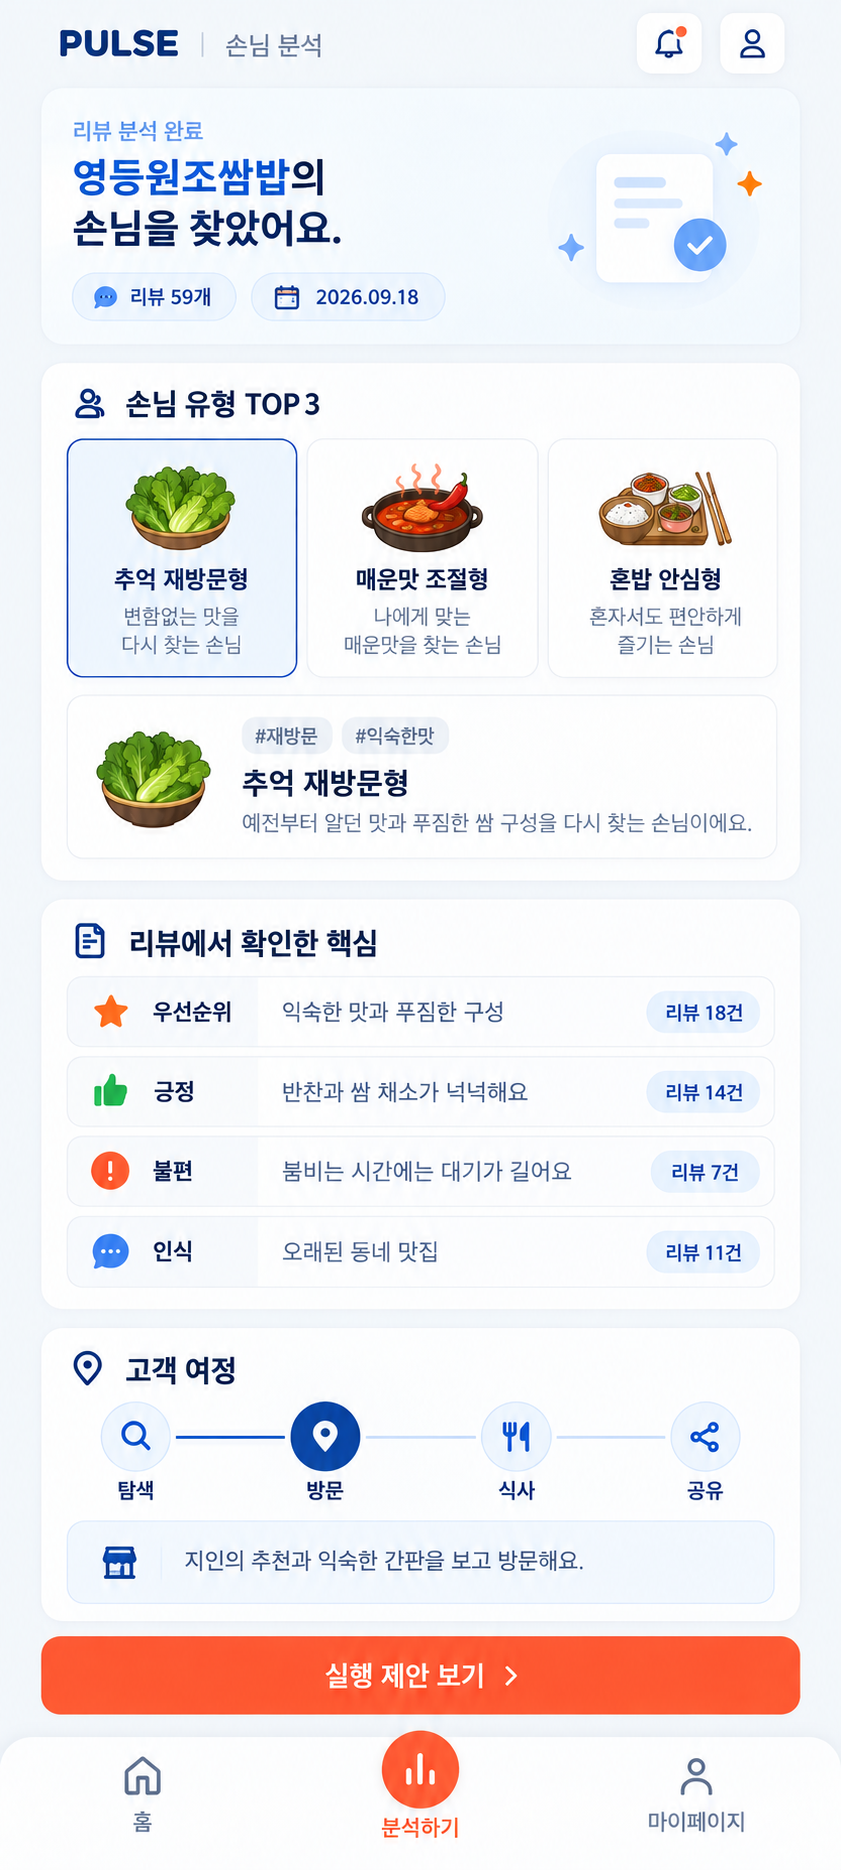
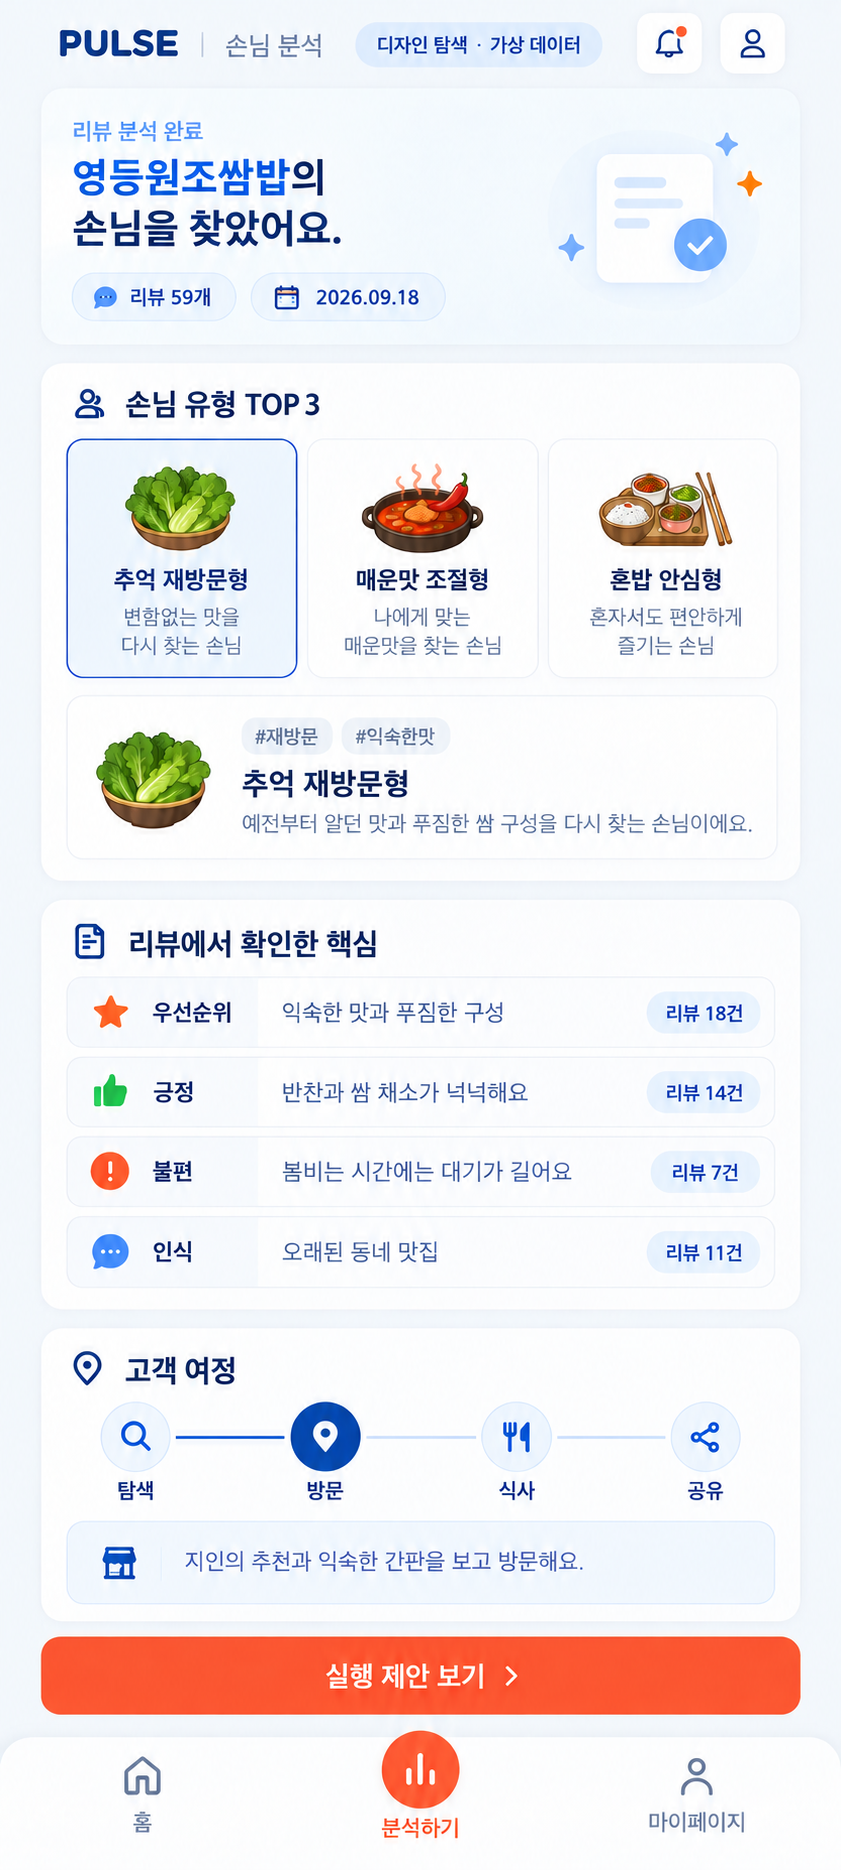
fix(design): 결과 탐색 시안 범위와 고지 보완

diff --git a/docs/design/explorations/TASK-017/README.md b/docs/design/explorations/TASK-017/README.md
@@ -4,7 +4,7 @@
 
 별도 웹 저장소 `C:\Users\303\Desktop\pulse_FE`의 실제 렌더링과 SCC의 기존 Android 결과 프로토타입을 다시 대조해 네 가지 모바일 시안을 만들었다. 이 작업은 **디자인 비교용 탐색**이며 제품 코드나 확정 디자인 시스템을 변경하지 않는다.
 
-> 화면의 상호명·리뷰·날짜·건수는 모두 가상 데이터다. ImageGen 결과는 배치와 시각 언어를 검토하기 위한 참고 이미지이며, 화면 문자열·간격·접근성 통과를 보장하는 구현 산출물이 아니다.
+> 화면의 상호명·리뷰·날짜·건수는 모두 가상 데이터다. 네 PNG에도 `디자인 탐색 · 가상 데이터`를 표시했다. ImageGen 결과는 배치와 시각 언어를 검토하기 위한 참고 이미지이며, 화면 문자열·간격·접근성 통과를 보장하는 구현 산출물이 아니다.
 
 ## Sources reviewed
 
@@ -29,7 +29,7 @@
 - `C:\Users\303\Desktop\pulse_FE\tailwind.config.js`
 - `C:\Users\303\Desktop\pulse_FE\src\styles\globals.css`
 
-Vite 개발 서버에서 데스크톱과 390×844 모바일 뷰포트를 직접 확인했다. `pulse_FE`의 추적 파일은 수정하지 않았다.
+2026-09-21에 웹 HEAD `d57e75470fbec25f8efc79a1b5c320d360b05696`을 기준으로 Vite 개발 서버에서 데스크톱과 390×844 모바일 뷰포트를 직접 확인했다. 검토 종료 시 `pulse_FE` working tree가 clean임을 다시 확인했다.
 
 ## Web review
 
@@ -60,9 +60,9 @@ Vite 개발 서버에서 데스크톱과 390×844 모바일 뷰포트를 직접 
 | 시안 | 강점 | 한계 / 판단 |
 |---|---|---|
 | [A — Journey](web-aligned-a-journey.png) | 웹의 요약·선택 카드·고객 여정을 가장 직접적으로 계승 | 고객 여정과 일부 CTA가 확정 범위를 넘으므로 시각 탐색 전용 |
-| [B — Evidence](web-aligned-b-evidence.png) | 네 유형의 핵심을 빠르게 훑고 근거 건수를 명확히 확인 | 대표 리뷰와 사실/AI 분리가 충분히 보이지 않아 단독 채택 불가 |
+| [B — Evidence](web-aligned-b-evidence.png) | 네 관점의 핵심을 빠르게 훑고 근거 건수를 명확히 확인 | 대표 리뷰와 사실/AI 분리가 충분히 보이지 않아 단독 채택 불가 |
 | [C — Focus](web-aligned-c-focus.png) | 큰 터치 영역과 여백, 한 손 탐색, 선택 유형 집중도가 가장 좋음 | 가로 캐러셀이 3칸 포디움의 동시 비교성을 약화할 수 있음 |
-| [Final — Recommended](web-aligned-final-recommended.png) | 웹의 브랜드 감각과 SCC의 확정 IA를 함께 유지 | 실제 구현 후 작은 화면·큰 글자·TalkBack 재검증 필요 |
+| [Final — Recommended](web-aligned-final-recommended.png) | 웹의 브랜드 감각과 SCC의 확정 IA를 함께 유지하고 사실+행동을 기본 노출 | 실제 구현 후 작은 화면·큰 글자·TalkBack 재검증 필요 |
 
 ## Recommended direction
 
@@ -74,6 +74,8 @@ Vite 개발 서버에서 데스크톱과 390×844 모바일 뷰포트를 직접 
 4. TASK-016의 4관점·대표 리뷰·사실+행동·접힌 AI/지식 순서
 5. 사용자가 선호한 중앙 원형 `분석하기` 하단 내비게이션
 
+최종 권장안에는 상단 알림·프로필, TOP3 `더보기`, 별도 제안 CTA를 두지 않는다. 검토할 행동은 화면에 기본 노출하고, 유일한 오렌지 주요 행동은 중앙 `분석하기` 아이콘으로 제한한다. 흰 배경의 작은 레이블과 내비게이션 문자는 네이비를 사용한다.
+
 웹의 고객 여정은 최종 권장안에서 제외했다. 제품 요구사항에 추가하려면 먼저 `role:product`가 PRD와 `RESULT_IA`를 갱신해야 한다.
 
 ## ImageGen provenance
@@ -82,16 +84,17 @@ Vite 개발 서버에서 데스크톱과 390×844 모바일 뷰포트를 직접 
 
 | 파일 | 크기 | SHA-256 | 프롬프트 요약 |
 |---|---:|---|---|
[8 lines of base64/hex data omitted]
 
 원본은 Codex 생성 이미지 디렉터리에 유지하고, 이 폴더에는 프로젝트 검토용 복사본을 보존한다.
 
 ## Validation boundary
 
 - 네 PNG를 육안으로 확인하고 크기와 SHA-256을 기록했다.
-- `pulse_FE`의 데스크톱·390×844 실제 렌더링을 확인했다.
-- SCC 앱 코드는 바꾸지 않았으므로 lint, typecheck, Android export, TalkBack, 독립 리뷰는 이번 탐색에 적용하지 않았다.
+- `pulse_FE`의 고정 commit에서 데스크톱·390×844 실제 렌더링을 확인했다.
+- 독립 리뷰 초회 NO-GO에서 정본 밖 동작, 가상 데이터 고지, 오렌지 대비, 웹 기준점, 문구 오류를 발견해 이미지와 문서를 수정했다.
+- SCC 앱 코드는 바꾸지 않았으므로 lint, typecheck, Android export, TalkBack은 이번 탐색에 적용하지 않았다.
 - 최종 시안을 코드로 옮길 때는 디자인 토큰만 사용하고, ImageGen이 그린 아이콘·문자·간격을 그대로 자산화하지 않는다.

diff --git a/docs/handoffs/active/TASK-017-web-aligned-exploration.md b/docs/handoffs/active/TASK-017-web-aligned-exploration.md
@@ -1,7 +1,7 @@
 # TASK-017 — `pulse_FE` 정렬 결과 화면 탐색
 
 ## Status
-디자인 탐색 완료 · 사용자 선택 대기
+초회 독립 리뷰 수정 완료 · 재리뷰 대기
 
 ## Owner
 role:design-system — Codex
@@ -19,6 +19,7 @@ ui/TASK-017-web-aligned-exploration
 - 기존 TASK-016 구현·문서·Android 증거를 PRD, 결과 IA, 디자인 시스템과 다시 대조했다.
 - 웹 정렬 모바일 시안 3개와 확정 IA를 반영한 최종 권장안 1개를 ImageGen으로 생성했다.
 - 고객 여정, 사람 아바타, 릴스 제작 등 웹에서 앱 MVP로 가져오면 안 되는 요소를 분리했다.
+- 독립 리뷰 초회 P1 2건·P2 2건·P3 1건을 반영해 네 PNG에 가상 데이터 고지를 넣고 최종안의 정본 밖 동작·중복 CTA·저대비 주황 텍스트를 제거했다.
 
 ## Changed
 - `docs/design/explorations/TASK-017/README.md` — 웹 검토, 재검토 결과, 시안 비교, 권장 방향과 생성 근거
@@ -29,6 +30,7 @@ ui/TASK-017-web-aligned-exploration
 - 웹의 브랜드 언어는 계승하되 데스크톱 2열 레이아웃은 모바일에 복사하지 않는다.
 - 최종 권장안은 `RESULT_IA`의 메타정보→TOP3→4관점→대표 근거→행동→접힌 AI/지식 순서를 유지한다.
 - 웹의 고객 여정은 현재 제품 계약 밖이므로 최종 권장안에서 제외하고 탐색안에만 남긴다.
+- 최종 권장안에서 검토할 행동을 기본 노출하고 유일한 오렌지 주요 행동은 중앙 `분석하기` 아이콘으로 제한한다.
 - 현재 React Native 프로토타입은 사용자 시안 선택 전까지 수정하지 않는다.
 
 ## Verification
@@ -39,9 +41,10 @@ ui/TASK-017-web-aligned-exploration
 | typecheck | 미실행 — 코드 변경 없음 | 해당 없음 |
 | test | 미실행 — 코드 변경 없음 | 해당 없음 |
 | build | 미실행 — 코드 변경 없음 | 해당 없음 |
-| Web Visual QA | Vite 실제 렌더링, 데스크톱·390×844 | 데스크톱 확인, 모바일 2열 잘림 확인 |
-| Image QA | 네 PNG 육안 확인, `System.Drawing` 크기 확인, `Get-FileHash -Algorithm SHA256` | 4개 모두 841×1870, 해시 기록 완료 |
+| Web Visual QA | Vite 실제 렌더링, 데스크톱·390×844 | HEAD `d57e75470fbec25f8efc79a1b5c320d360b05696`, 데스크톱 확인, 모바일 2열 잘림 확인 |
+| Image QA | 네 PNG 육안 확인, `System.Drawing` 크기 확인, `Get-FileHash -Algorithm SHA256` | 수정본 4개 모두 841×1870, 화면 내부 가상 데이터 고지와 해시 기록 완료 |
 | 저장소 경계 | `git status --short --branch` in `pulse_FE` | 추적 파일 변경 없음 |
+| 독립 리뷰 | 초회 P1 2건·P2 2건·P3 1건 | 수정 완료, 재리뷰 대기 |
 
 ## Unresolved
 - 사용자가 최종 권장안 또는 다른 시안의 조합을 선택해야 한다.
@@ -59,4 +62,4 @@ ui/TASK-017-web-aligned-exploration
 사용자가 권장 시안과 조합을 승인하면 현재 React Native 프로토타입의 시각 계층만 토큰 기반으로 수정하고 코드 검증, Android Visual QA, 큰 글자, TalkBack, 독립 리뷰를 다시 실행한다.
 
 ## Last Verified Commit
-`818bb60` — `docs(design): 웹 정렬 결과 화면 탐색 추가`
+`818bb60` — 초회 탐색 커밋. 독립 리뷰 수정본은 아직 커밋 전이다.
